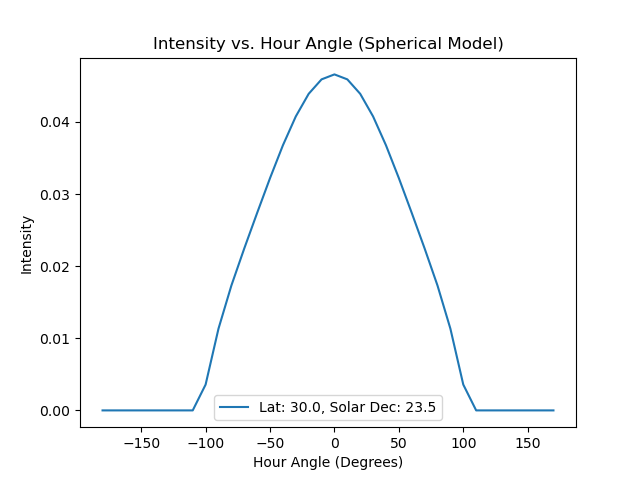
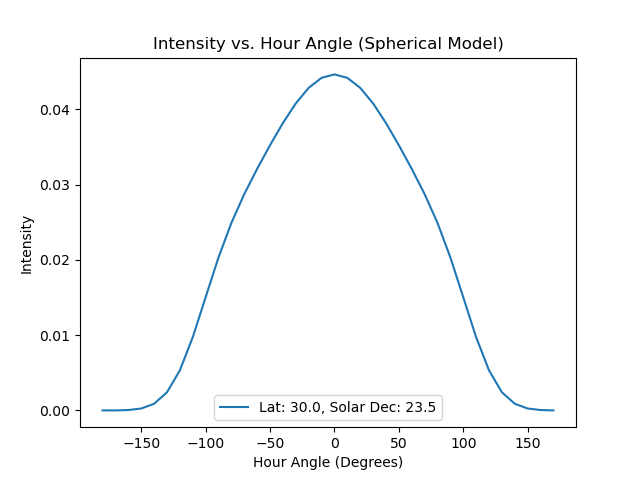
added single_scatter_plot_spherical.py (twilight fisheye plot) *NOT FINISHED*

diff --git a/src/single_scatter_plot_spherical.py b/src/single_scatter_plot_spherical.py
@@ -1,0 +1,147 @@
+import os, numpy as np, matplotlib.pyplot as plt
+from typing import Tuple, List, Dict
+from matplotlib.colors import Normalize, LinearSegmentedColormap
+from intensity_vs_theta_spherical import intensity_at_ground_spherical
+
+
+def calculate_sun_position(solar_declination: float, hour_angle: float) -> Tuple[float, float]:
+    """
+    calculate the sun's position in zenith and azimuth angles based on solar declination and hour angle
+
+    args:
+        solar_declination: angle of the sun relative to the equator in degrees
+        hour_angle: the sun's position relative to the observer's local meridian in degrees
+
+    returns:
+        tuple of (zenith_angle, azimuth_angle) in degrees
+    """
+    zenith_angle = 90 - solar_declination # zenith angle (90 is horizon)
+    azimuth_angle = hour_angle # azimuth angle directly corresponds to hour angle
+
+    return zenith_angle, azimuth_angle
+
+
+def generate_fisheye_data(
+        latitude: float,
+        longitude: float,
+        solar_declination: float,
+        tau_atm: float,
+        num_layers: int,
+        num_zenith_points: int = 90,
+        num_azimuth_points: int = 180
+) -> np.ndarray:
+    """
+    generate intensity values across the sky for a fisheye plot using the spherical earth model
+
+    args:
+        latitude: observer's latitude in degrees
+        longitude: observer's longitude in degrees
+        solar_declination: solar declination angle in degrees
+        tau_atm: atmospheric optical depth
+        num_layers: number of atmospheric layers to integrate over
+        num_zenith_points: number of radial (zenith) points to calculate
+        num_azimuth_points: number of azimuthal points to calculate
+
+    returns:
+        2D numpy array of intensity values across the sky for the fisheye plot
+    """
+    # arrays to hold the zenith angles and azimuth angles
+    zenith_angles = np.linspace(0, 90, num_zenith_points) # 0 (zenith) to 90 (horizon)
+    azimuth_angles = np.linspace(0, 360, num_azimuth_points) # 360 degrees around
+
+    # create a 2D grid to store intensities for each (zenith, azimuth) pair
+    intensities = np.zeros((num_zenith_points, num_azimuth_points))
+
+    # compute intensity for each zenith and azimuth angle
+    for i, zenith in enumerate(zenith_angles):
+        for j, azimuth in enumerate(azimuth_angles):
+            # adjust the hour angle based on azimuth
+            hour_angle = azimuth - 180 # map azimuth to [-180, 180] degrees
+            intensities[i, j] = intensity_at_ground_spherical(latitude, longitude, solar_declination, hour_angle, tau_atm, num_layers)
+
+    return intensities
+
+
+def create_twilight_colormap() -> LinearSegmentedColormap:
+    """
+    create a custom colormap to represent the twilight sky
+
+    returns:
+        a LinearSegmentedColormap object
+    """
+    # define key colors and positions in the gradient (0 = far from sun, 1 = near the sun)
+    cdict: Dict[str, List[Tuple[float, float, float]]] = {
+        'red':   [(0.0, 0.0, 0.0),   # black (night sky)
+                  (0.2, 0.2, 0.2),   # dark blue
+                  (0.5, 0.5, 0.5),   # purple
+                  (0.7, 0.9, 0.9),   # red/orange (sunset colors)
+                  (1.0, 1.0, 1.0)],  # yellow (bright sunlight near horizon)
+        
+        'green': [(0.0, 0.0, 0.0),   # black
+                  (0.2, 0.1, 0.1),   # dark blue
+                  (0.5, 0.0, 0.0),   # purple
+                  (0.7, 0.5, 0.5),   # red/orange
+                  (1.0, 1.0, 1.0)],  # yellow
+        
+        'blue':  [(0.0, 0.0, 0.0),   # black
+                  (0.2, 0.5, 0.5),   # dark blue
+                  (0.5, 0.5, 0.5),   # purple
+                  (0.7, 0.0, 0.0),   # red/orange
+                  (1.0, 0.0, 0.0)]   # yellow
+    }
+
+    # create the colormap object
+    twilight_colormap = LinearSegmentedColormap('twilight_sky', cdict)
+
+    return twilight_colormap
+
+
+def plot_fisheye_twilight_sky(intensities: np.ndarray, solar_declination: float, hour_angle: float, save_path: str = './plots', save_name: str = 'twilight_fisheye_spherical.png'):
+    """
+    create a fisheye plot representing the twilight sky based on scattering intensities
+
+    args:
+        intensities: 2D array of scattering intensity values
+        solar_declination: angle of the sun relative to the equator in degrees
+        hour_angle: the sun's position relative to the observer's local meridian in degrees
+        save_path: directory to save the plot
+        save_name: name of the saved plot file
+    """
+    # create directory if it doesn't exist
+    if not os.path.exists(save_path):
+        os.makedirs(save_path)
+
+    num_zenith_points, num_azimuth_points = intensities.shape
+
+    # create polar plot
+    fig, ax = plt.subplots(subplot_kw={'projection': 'polar'}, figsize=(6, 6))
+
+    # create the meshgrid for zenith and azimuth
+    zenith_angles = np.linspace(0, 90, num_zenith_points) # radius in degrees (0 to 90)
+    azimuth_angles = np.linspace(0, 2 * np.pi, num_azimuth_points) # azimuth in radians
+
+    # normalize the intensity data for better color mapping
+    norm = Normalize(vmin=np.min(intensities), vmax=np.max(intensities))
+
+    # use the custom twilight colormap
+    twilight_colormap = create_twilight_colormap()
+
+    # plot the twilight sky as a color-mapped polar plot
+    theta, r = np.meshgrid(azimuth_angles, zenith_angles)
+    ax.pcolormesh(theta, r, intensities, shading='auto', norm=norm, cmap=twilight_colormap)
+
+    # set radial limits (zenith angle, 0 = zenith, 90 = horizon)
+    ax.set_ylim(0, 90)
+    ax.set_yticklabels([]) # hide radial ticks for cleaner look
+
+    # plot the sun's position as a yellow circle
+    sun_zenith, sun_azimuth = calculate_sun_position(solar_declination, hour_angle)
+    ax.scatter(np.radians(sun_azimuth), sun_zenith, color='yellow', s=100, label='Sun')
+
+    # customize the look of the plot
+    ax.set_title('Twilight Sky Intensity (Spherical Model)', va='bottom')
+    ax.legend(loc='upper right')
+
+    # save the plot
+    plt.savefig(os.path.join(save_path, save_name))
+    plt.show()

diff --git a/src/intensity_vs_theta_spherical.py b/src/intensity_vs_theta_spherical.py
@@ -9,13 +9,79 @@ from spherical_model import (
 )
 
 
+def air_mass(zenith_angle: float) -> float:
+    """
+    calculate the air mass for a given zenith angle
+    """
+    if zenith_angle > 89.0:
+        return 40.0 # approximate max air mass near the horizon
+    
+    return 1.0 / (math.cos(math.radians(zenith_angle)) + 0.15 * (93.885 - zenith_angle) ** -1.253) # kasten-young model
+
+
+def refraction_correction(zenith_angle: float) -> float:
+    """
+    apply a basic atmospheric refraction correction for light near the horizon
+    """
+    if zenith_angle < 90.0:
+        z = math.radians(zenith_angle)
+        # approximate refraction formula for standard atmosphere
+        return (1.02 / math.tan(z + (10.3 / (z + 5.11)))) / 60.0 # returns refraction in degrees
+    
+    return 0.0
+
+
+def gaussian_kernel(size: int, sigma: float) -> np.ndarray:
+    """
+    create a 1D gaussian kernel using the specified size and standard deviation (sigma)
+
+    args:
+        size: size of the gaussian kernel (typically an odd number)
+        sigma: standard deviation of the gaussian distribution
+
+    returns:
+        1D numpy array representing the gaussian kernel
+    """
+    # create an array of values [-size // 2, size // 2]
+    x = np.arange(-size // 2 + 1, size // 2 + 1)
+
+    # compute the 1D gaussian distribution for these values
+    kernel = np.exp(-x ** 2 / (2 * sigma ** 2))
+
+    # normalize the kernel to ensure the sum is 1
+    return kernel / np.sum(kernel)
+
+
+def apply_gaussian_smoothing(data: np.ndarray, sigma: float) -> np.ndarray:
+    """
+    apply a gaussian smoothing filter to the input data
+
+    args:
+        data: 1D numpy array of intensity values to smooth
+        sigma: standard deviation of the gaussian kernel
+
+    returns:
+        smoothed 1D numpy array
+    """
+    # choose the size of the gaussian kernel (3 * sigma is a good rule of thumb)
+    kernel_size = int(3 * sigma) * 2 + 1
+
+    # generate the gaussian kernel
+    kernel = gaussian_kernel(kernel_size, sigma)
+
+    # convolve the data with the kernel using 'same' mode to keep the same size
+    smoothed_data = np.convolve(data, kernel, mode='same')
+
+    return smoothed_data
+
+
 def intensity_at_ground_spherical(
     latitude: float,
     longitude: float,
     solar_declination: float,
     hour_angle: float,
     tau_max: float,
-    num_layers: int = 10
+    num_layers: int = 100
 ) -> float:
     """
     calculate the intensity at the ground level based on the spherical Earth model and atmospheric scattering effects
@@ -45,6 +111,12 @@ def intensity_at_ground_spherical(
     # calculate the actual zenith angle (in degrees)
     zenith_angle = math.degrees(math.acos(cos_zenith_angle))
 
+    # apply refraction correction to the zenith angle near the horizon
+    zenith_angle -= refraction_correction(zenith_angle)
+
+    # air mass factor to account for increased optical depth near the horizon
+    airmass_factor = air_mass(zenith_angle)
+
     # integrate the scattering effects over multiple atmospheric layers
     intensity = 0.0
     delta_tau = tau_max / num_layers # optical depth per layer
@@ -58,8 +130,8 @@ def intensity_at_ground_spherical(
         if mu < 1e-5: # small threshold to prevent division by very small numbers
             continue
 
-        # calculate the phase function for scattering at this layer
-        layer_intensity = rayleigh_phase_function(zenith_angle) * math.exp(-tau_layer / mu) * delta_tau
+        # calculate the phase function and air mass adjustment for scattering at this layer
+        layer_intensity = rayleigh_phase_function(zenith_angle) * math.exp(-tau_layer / (mu * airmass_factor)) * delta_tau
 
         # accumulate the intensity from this layer
         intensity += layer_intensity
@@ -91,7 +163,10 @@ def generate_intensity_spherical(
         theta_obs.append(hour_angle)
         intensities.append(intensity_at_ground_spherical(latitude, longitude, solar_declination, hour_angle, tau_atm, num_layers))
 
-    return theta_obs, intensities
+    # apply a gaussian smoothing filter to reduce sharp transitions
+    smoothed_intensities = apply_gaussian_smoothing(intensities, sigma=2)
+
+    return theta_obs, smoothed_intensities
 
 
 def plot_intensity_vs_theta_spherical(
@@ -99,7 +174,7 @@ def plot_intensity_vs_theta_spherical(
         longitude: float = 0.0, # example longitude
         solar_declination: float = 23.5, # example solar declination (approx for summer solstice)
         tau_atm: float = 0.5,
-        num_layers: int = 10,
+        num_layers: int = 20,
         save_path: str = './plots',
         save_name: str = 'intensity_vs_theta_spherical.png'
 ) -> None:

diff --git a/src/__init__.py b/src/__init__.py
@@ -24,6 +24,14 @@ from plane_parallel import (
 )
 
 
+# import the spherical model functions
+from spherical_model import (
+    photon_unit_vector_spherical,
+    sun_position_vector,
+    scattering_angle_spherical
+)
+
+
 # import vector calculation utilities
 from vector_operations import (
     direction_vector,
@@ -49,7 +57,19 @@ from single_scatter_plot import (
     calculate_quantity,
     make_contour_plot
 )
-
+from intensity_vs_theta_spherical import (
+    air_mass,
+    refraction_correction,
+    generate_intensity_spherical,
+    plot_intensity_vs_theta_spherical
+)
+from single_scatter_plot_spherical import (
+    calculate_sun_position,
+    generate_fisheye_data,
+    create_twilight_colormap,
+    plot_fisheye_twilight_sky
+)
+    
 
 # import utils if there are any general utility functions
 from utils import format_sig_figs
@@ -67,6 +87,9 @@ __all__ = [
     'intensity_at_top',
     'scattered_intensity_at_tau',
     'intensity_at_tau',
+    'photon_unit_vector_spherical',
+    'sun_position_vector',
+    'scattering_angle_spherical',
     'direction_vector',
     'dot_product',
     'normalize',
@@ -80,5 +103,13 @@ __all__ = [
     'plot_polarization_vs_theta',
     'calculate_quantity',
     'make_contour_plot',
+    'air_mass',
+    'refraction_correction',
+    'generate_intensity_spherical',
+    'plot_intensity_vs_theta_spherical',
+    'calculate_sun_position',
+    'generate_fisheye_data',
+    'create_twilight_colormap',
+    'plot_fisheye_twilight_sky',
     'format_sig_figs'
 ]

diff --git a/src/main_spherical.py b/src/main_spherical.py
@@ -1,7 +1,25 @@
 from intensity_vs_theta_spherical import plot_intensity_vs_theta_spherical
+from single_scatter_plot_spherical import generate_fisheye_data, plot_fisheye_twilight_sky
 
 def main():
-    plot_intensity_vs_theta_spherical()
+    # plot intensity vs. theta using a spherical earth model
+    #plot_intensity_vs_theta_spherical()
+
+    # example usage for fisheye twilight plot
+    latitude = 30.0
+    longitude = 0.0
+    solar_declination = 23.5 # approximate for summer solstice
+    tau_atm = 0.5
+    num_layers = 100
+
+    # adjust the hour angle to simulate twilight
+    hour_angle = 120 # ±90° to ±120° for twilight
+
+    # generate fisheye intensity data
+    intensity_data = generate_fisheye_data(latitude, longitude, solar_declination, tau_atm, num_layers)
+
+    # plot the fisheye twilight sky
+    plot_fisheye_twilight_sky(intensity_data, solar_declination, hour_angle)
 
 
 if __name__ == '__main__':

diff --git a/src/test.py b/src/test.py
@@ -1,0 +1,2 @@
+import scipy
+print(scipy.__version__)
